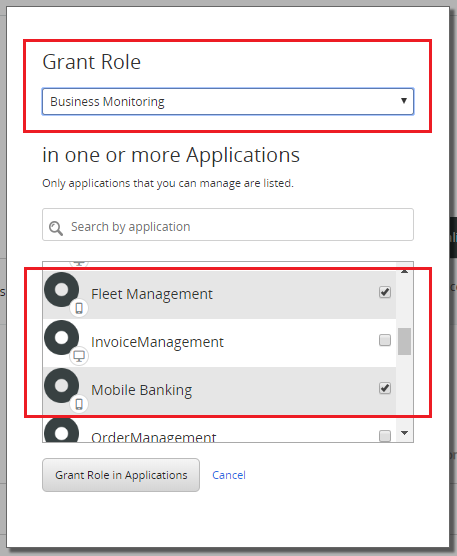
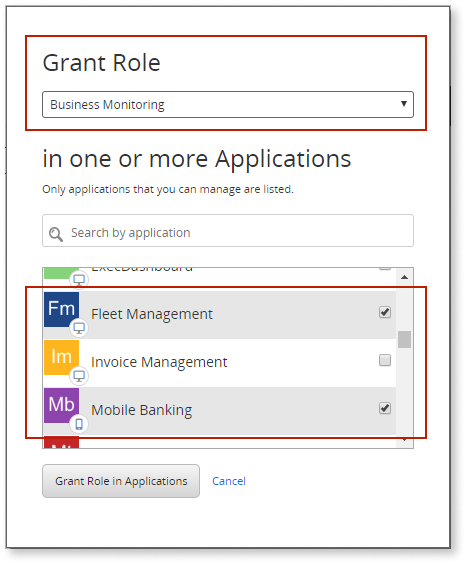
Updated UI and role name.

Changed region(s): [[0.0, 0.0, 1.0, 1.0]]

diff --git a/src/managing-the-applications-lifecycle/manage-it-teams/grant-it-roles-for-a-specific-application.md b/src/managing-the-applications-lifecycle/manage-it-teams/grant-it-roles-for-a-specific-application.md
@@ -12,14 +12,14 @@ In this example we want to allow a business user to **monitor** the applications
 
 To do this, configure the business user:
 
-1. [Create a new role](create-an-it-role.md#create-a-new-role) called Business Monitoring that has the permission level **Monitor and Reference Applications**. This permission level allows users to monitor applications without granting access to opening the modules of those applications.  
+1. [Create a new role](create-an-it-role.md#create-a-new-role) called Business Monitoring that has the permission level **Monitor and Add Dependencies**. This permission level allows users to monitor applications without granting access to opening the modules of those applications.  
 
-    ![](images/grant-role-for-app-new-role-lt.png?width=450)
+    ![](images/grant-role-for-app-new-role-lt.png)
 
 1. Go to the user detail screen of the business user and [assign the role](create-an-it-role.md#assign-a-role-to-a-user-for-a-specific-application) Business Monitoring to the applications Mobile Banking and Fleet Management.  
 
-    ![](images/grant-role-for-app-assign-role-lt.png?width=400)
+    ![](images/grant-role-for-app-assign-role-lt.png)
 
-Checking the [permissions of the business user](find-out-the-permissions-of-it-users.md#permissions-of-a-specific-IT-user), you can see that the user has **Monitor and Reference** permission over Fleet Management and Mobile Banking applications, but no access over any other application in the environment.
+Checking the [permissions of the business user](find-out-the-permissions-of-it-users.md#permissions-of-a-specific-IT-user), you can see that the user has **Monitor and Add Dependencies** permission over Fleet Management and Mobile Banking applications, but no access over any other application in the environment.
 
-![](images/grant-role-for-app-check-permission-lt.png?width=700)
+![](images/grant-role-for-app-check-permission-lt.png)
